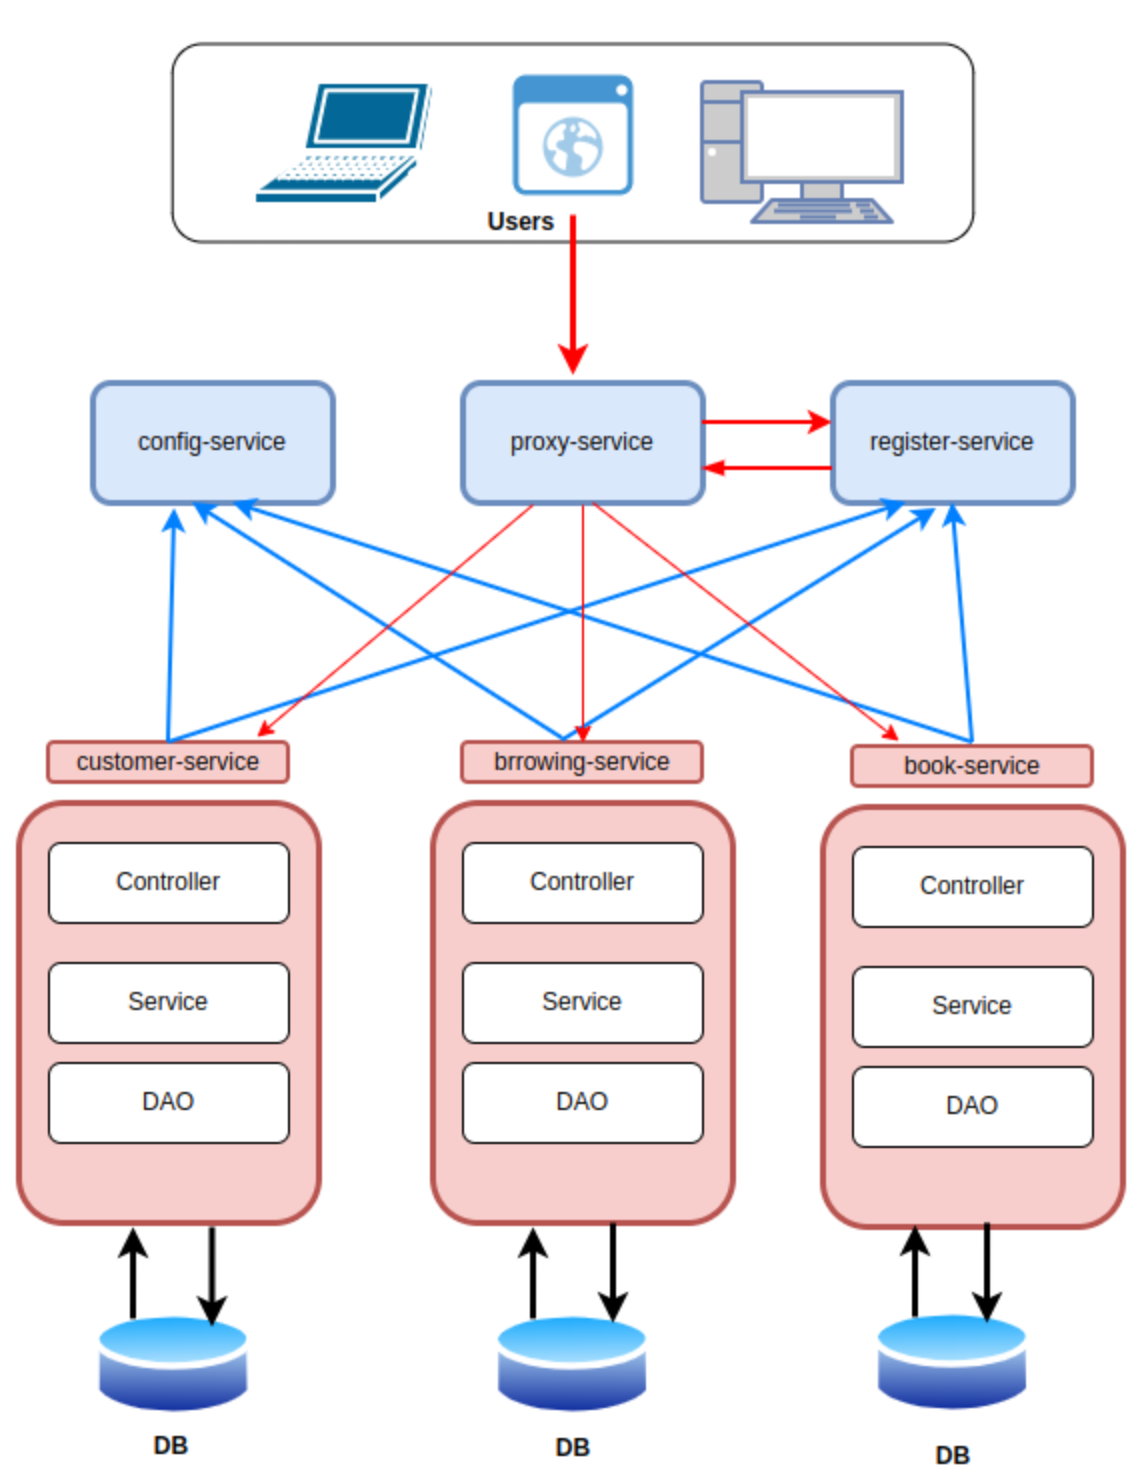
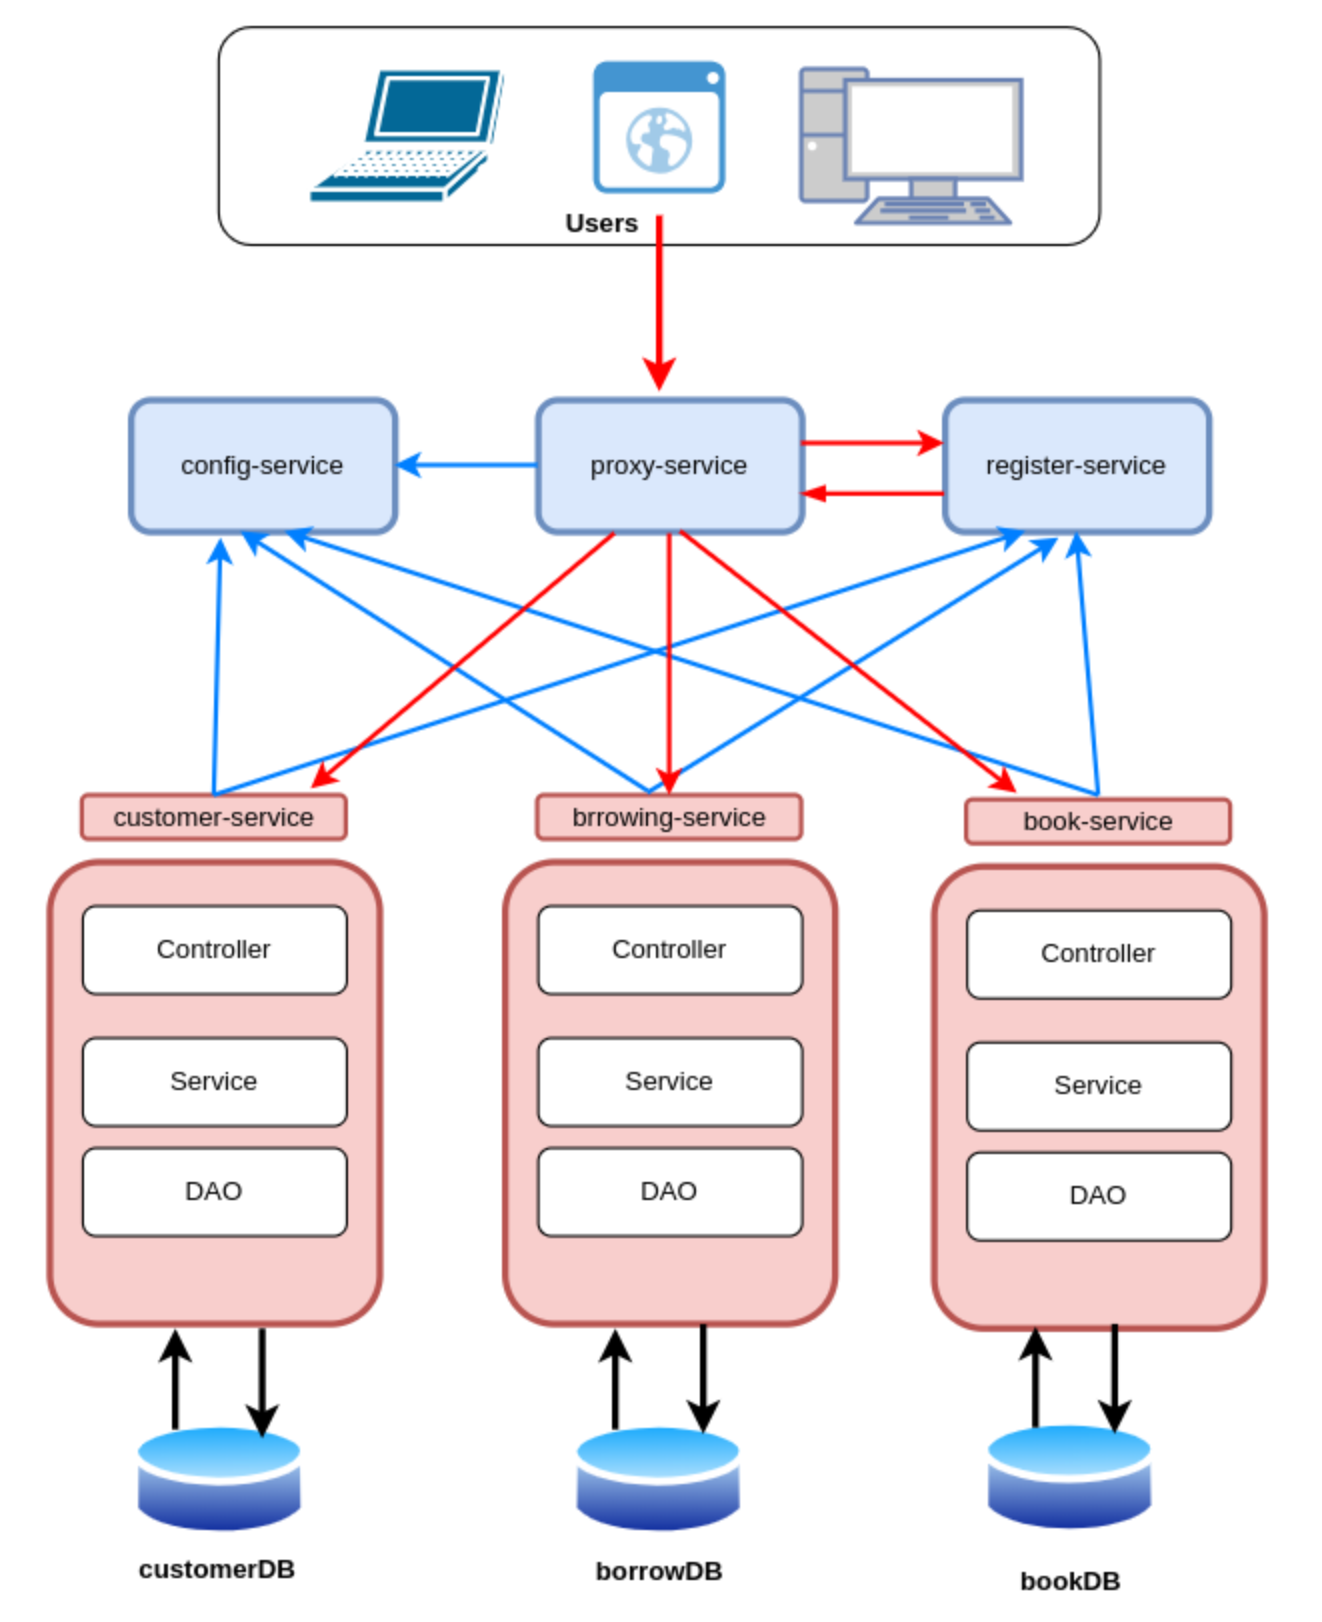
update readme file

Changed region(s): [[0.0, 0.0, 1.0, 0.9973]]

diff --git a/README.md b/README.md
@@ -30,7 +30,7 @@ The startup order of the following application microservices is not critical: cu
 Finally, we launch the gateway-service.
 
 
-### How to interact with microservices:
+### How to Interact with Microservices:
 
 -A user connects via the graphical interface or with a REST client to perform CRUD operations on our application.
 
@@ -38,14 +38,33 @@ Finally, we launch the gateway-service.
 
 -The gateway then queries the registration management service, passing the name of the target microservice to request its IP address and port.
 
--The register-service responds to the gateway's request by sending the IP address and port of the requested microservice.
+-The discovery-service responds to the gateway's request by sending the IP address and port of the requested microservice.
 
 -Finally, the gateway forwards the user request to the microservice using the IP address and the port.
+
+
+### Book Borrowing System - A Real Scenario
+
+In a practical library book borrowing system, the librarian adds newly arrived books to the database each time the library receives a new shipment.
+When a new customer wants to borrow books, the librarian first creates an account for the customer by calling the customer-service.
+Then, the librarian creates a borrowing record by calling the borrowing-service, which interacts with both the customer-service and the book-service to establish an association between the customer and the selected books.
 
 ### Database Backup Strategy: 
 We have chosen to separate the database so that each microservice has its own. This choice makes data integrity control more complex, which becomes the responsibility of the designer and must be managed at the service layers. We should note that in distributed databases, relationships between data that would traditionally be enforced by foreign keys must be handled at the application level instead.
 
 ### implementation of microservice
+
+For simplicity, and to facilitate testing of our microservices, we insert some sample data at application startup using the _CommandLineRunner_ bean.
+
+```#Java
+@Bean
+CommandLineRunner start(/*Inject needed dependencies here*/) {
+    // Do some stuff here
+}
+
+```
+
+Here is a technical description of how to implement each microservice and how to test it directly using its IP address and port.
 
 * The customer-service :
 We implement this service using a three-layer architecture: controller, service, and DAO.
@@ -68,7 +87,7 @@ We implement a _Book_ entity, a controller annotated with _@RestController_, a s
 <img src="figures/2.list_of_all_books.png" width=100%>
 </p>
 <p align="center">
-Figure 2: Display the list of all saved books 
+Figure 3: Display the list of all saved books 
 </p>
 
 * The config-service :
@@ -80,26 +99,26 @@ Here is the url of the remote git repository that we use to gather all configura
 <img src="figures/2.config-of-application-yaml-file.png" width=100%>
 </p>
 <p align="center">
-Figure 2: Display the configuration in the application.yaml file  
+Figure 4: Display the configuration in the application.yaml file  
 </p>
 
 <p align="center">
-<img src="figures/2.config-of-register-service-yaml-file.png" width=100%>
+<img src="figures/2.config-of-discovery-service-yaml-file.png" width=100%>
 </p>
 <p align="center">
-Figure 2: Display the configuration in the register-service.yaml file  
+Figure 5: Display the configuration in the discovery-service.yaml file  
 </p>
 
 
 
-* The register-service : 
+* The discovery-service : 
 we use Spring Cloud Netflix Eureka Server
 
 <p align="center">
-<img src="figures/4.register-service.png" width=100%>
+<img src="figures/4.discovery-service.png" width=100%>
 </p>
 <p align="center">
-Figure 2: Display the interface of the register-service  
+Figure 6: Display the interface of the discovery-service  
 </p>
 
 
@@ -124,7 +143,7 @@ Therefore, we will:
 <img src="figures/2.class_diagram.png" width=100%>
 </p>
 <p align="center">
-Figure 2: Class diagram of the borrowing-service 
+Figure 7: Class diagram of the borrowing-service 
 </p>
 
 
@@ -133,11 +152,44 @@ Figure 2: Class diagram of the borrowing-service
 <img src="figures/3.display-all-borrow-objects.png" width=100%>
 </p>
 <p align="center">
-Figure 2: Display all borrows 
+Figure 8: Display all borrowing records.
 </p>
 
 
+The following figures show the data retrieved when accessing our microservices through the gateway.
 
-Parler de la configuration dans …
+We notice that to access a microservice via the gateway service, we need to specify the name of the targeted service. It is then the responsibility of the gateway-service and the discovery-service to route the request to the appropriate microservice.
 
-bootstrap.yaml, nous spécifions le nom du service et le port sur lequel l’application est joignable. Nous précisons le url du serveur d’enregistrement Eureka et l’URL vers le repot gît dans lequel il y a le complément de configuration à télécharger pour pouvoir lancer le microservice convenablement.
+
+* To access the list of books through the gateway-service 
+
+We type : _localhost:8888/book-service/books_
+
+<p align="center">
+<img src="figures/5.call-book-service-through-gateway.png" width=100%>
+</p>
+<p align="center">
+Figure 9: Display the list of books when passing by the gateway-service.
+</p>
+
+* To access the list of customers through the gateway-service
+
+We type : _localhost:8888/customer-service/customers_
+
+<p align="center">
+<img src="figures/5.call-customer-service-through-gateway.png" width=100%>
+</p>
+<p align="center">
+Figure 10: Display the list of customers when passing by the gateway-service.
+</p>
+
+* To access the list of borrowing records through the gateway-service
+We type : _localhost:8888/borrowing-service/borrows_
+
+<p align="center">
+<img src="figures/6.call-borrowing-service-through-gateway.png" width=100%>
+</p>
+<p align="center">
+Figure 11: Display the list of borrowing records when passing by the gateway-service.
+</p>
+
